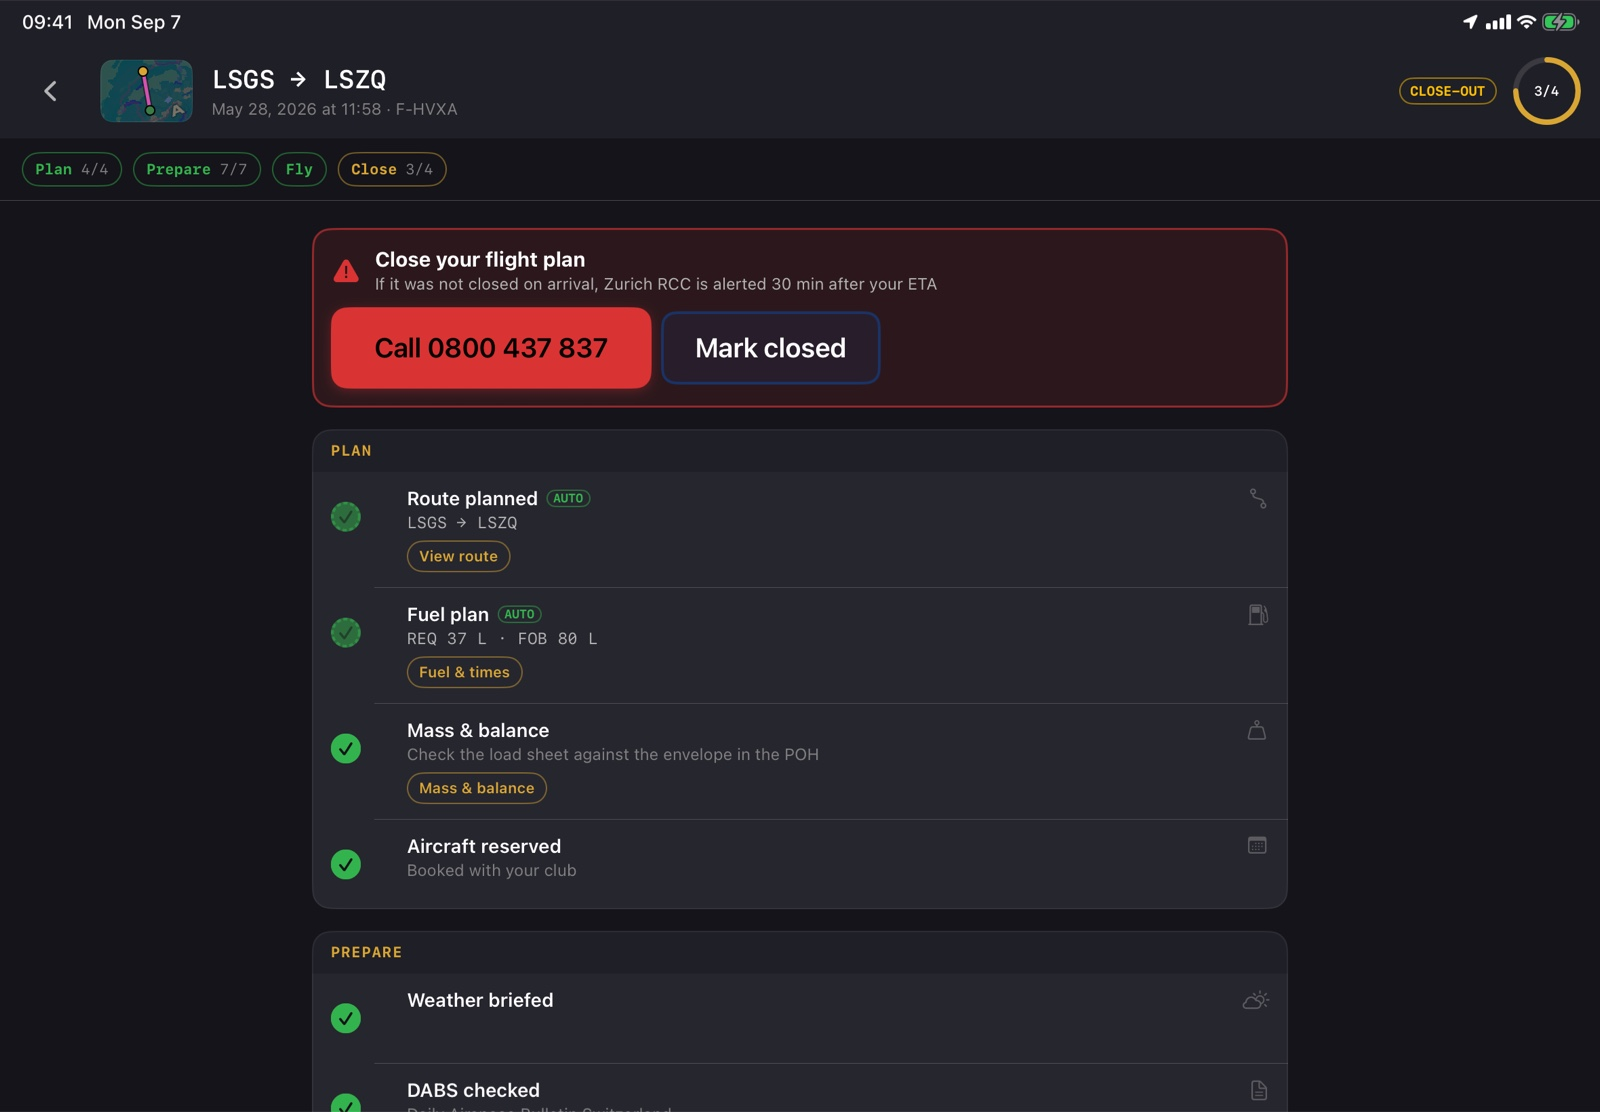
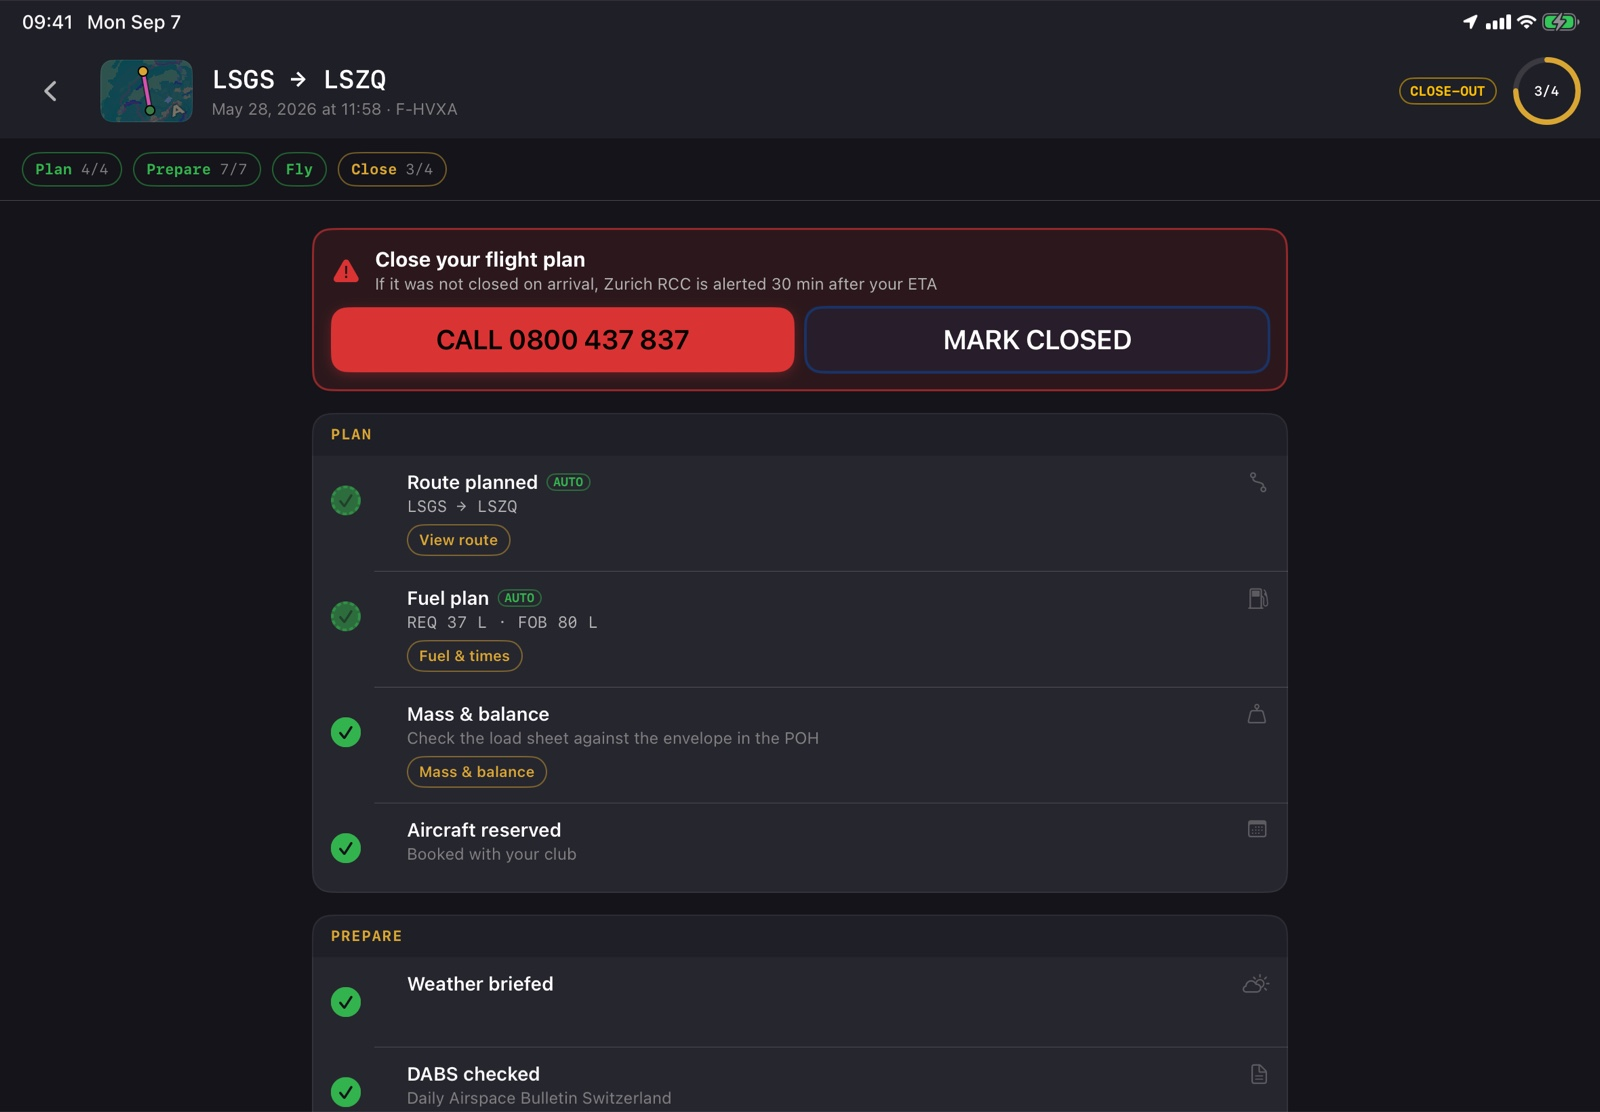
website: recapture every screenshot for the new interface
All 21 images (11 iPad, 10 iPhone) retaken against the tip of
review/v5-cumulative-fixes, which uppercased the shared button styles, gave
paired buttons a 65/35 split and shortened the Home shortcut row. Two iPad
frames come back byte-identical — the flight and prepare views show no styled
buttons, which is the injector being deterministic rather than a failed run.

CIRCUITS is now in the picture on both devices. It is gated behind a setting,
so every earlier Home shot simply did not have it; the injector turns circuit
mode on for every scene rather than leaving it to whatever the simulator
happened to be set to.

The older scenes are recaptured too, and two of them needed fixing first:
`home` and `airspace` had been coming back as a flight card because a leftover
thread scheduled today takes over Home's hero. The injector now clears threads
and demo routes for every scene, and waits for those stores to finish loading
before it does — the previous fixed sleep raced them, read an empty list and
cleared nothing.

Also: the script maps scene keys to shot keys (cruise→hud, conflicts→airspace,
plan→planning, flightlog→log) instead of leaving the renaming to whoever runs
it, and the playbook records the mapping, the reset, and the gestures the
older scenes need.

diff --git a/src/lib/shots.ts b/src/lib/shots.ts
@@ -1,10 +1,10 @@
 export interface Shot { ipad: string; iphone: string; label: string; }
 
-// v5 purpose-captured shots (2026-06-18). Flagship feature rows use focused REGION crops
-// (planning / hud / nav / airspace); the hero carousel + 'log'/'home' use full-device hero shots.
-// All captured deterministically via the DEBUG marketing scene injector — see the capture playbook.
-// iPad regions are mixed aspect (1.44–1.58) shown at native ratio in feature rows; iPhone are full
-// portrait (~0.46). The hero carousel cover-crops to a fixed aspect, so any of these fit there too.
+// Recaptured 2026-09-07 against review/v5-cumulative-fixes, after the button-label and Home layout
+// pass — every image below is a FULL-DEVICE screen, iPad landscape (1600×1112) and iPhone portrait
+// (800×1739). (An older comment here described some of them as region crops; they were already full
+// screens by then.) All captured deterministically via the DEBUG scene injector — see SCREENSHOTS.md.
+// The hero carousel cover-crops to a fixed aspect, so any of these fit there too.
 export const SHOTS: Record<string, Shot> = {
   hud:      { ipad: '/assets/screenshot/v5/ipad/hud.jpg',      iphone: '/assets/screenshot/v5/iphone/hud.jpg',      label: 'In-flight HUD' },
   // Hero carousel uses the FULL iPad HUD screen; the cropped `hud` region is reserved for the Fly
@@ -17,7 +17,7 @@ export const SHOTS: Record<string, Shot> = {
   home:     { ipad: '/assets/screenshot/v5/ipad/home.jpg',     iphone: '/assets/screenshot/v5/iphone/home.jpg',     label: 'Home' },
 };
 
-// 5.0.0 flight-thread scenes, captured 2026-09-07 from the DEBUG scene injector — see SCREENSHOTS.md.
+// The 5.0.0 flight-thread scenes, captured the same way and at the same time as the rest.
 // PLACEHOLDERS stays as the guard rail: put a key back in it if its image ever goes stand-in again,
 // and `shot()` will warn on every build until it is recaptured.
 const PLACEHOLDERS = new Set<string>();

diff --git a/SCREENSHOTS.md b/SCREENSHOTS.md
@@ -21,14 +21,23 @@ the injector's; the script names files after the shot key, which for the 5.0 sce
 | `prepare` | `prepare` | The same flight, scrolled to PREPARE (customs / border pack row visible) | swipe up once |
 | `closeout` | `closeout` | Vol d'Alpes (a real flight) in CLOSE, the red close-your-flight-plan card at the top | none |
 | `homeflight` | `homeflight` | Home with today's flight as the hero, aircraft in the strip | none |
-| `hudhero` / `hud` | `cruise` | Cruise, fuel-quantity step, instrument strip lit | none (`hud` is a region crop of `hudhero`) |
+| `hudhero` / `hud` | `cruise` | Cruise, fuel-quantity step, instrument strip lit | none (both names, same full screen) |
 | `nav` | `nav` | LSZQ→LSGC→LSGN→LSZB armed, bottom bar expanded | tap the bar's centre handle to expand; Track Vector + Flight Planning must be ON in Settings |
+| `airspace` | `conflicts` | Geneva → Samedan, the full airspace-conflict list | open the route, then the conflicts list |
 | `planning` | `plan` | Map-first builder, Jura → Engadin, route profile | expand the profile (chevron) |
 | `log` | `flightlog` | Flight detail of Vol d'Alpes, track + altitude profile | set the year filter to All time, tap Vol d'Alpes |
 
 Two rules that are not negotiable:
 
 - **iPad is captured in LANDSCAPE, iPhone in PORTRAIT.** The site's device frames depend on it.
+- **Scene keys and shot keys are not always the same word.** They match for the 5.0 scenes and differ
+  for the older ones (`cruise`→`hud`, `conflicts`→`airspace`, `plan`→`planning`, `flightlog`→`log`).
+  The script maps them, so pass the SCENE key and it writes the SHOT filename; `hud-hero.jpg` is
+  copied from the same iPad capture.
+- **Every scene clears all flight threads first, and turns circuit mode ON.** Both are deliberate: a
+  single leftover thread scheduled today takes over Home's hero, which silently turns the `home` and
+  `conflicts` shots into a flight card instead of what they are meant to show; and CIRCUITS is gated
+  behind a setting, so with it off the button simply is not in the picture.
 - **The scene launch bypasses the safety gate and onboarding.** A scene key means "show me the app",
   so the injector accepts both on launch. A fresh simulator container therefore needs no tapping.
 - **The demo flight is dated 1 August** (computed as the *next* 1 August at inject time, so it is
